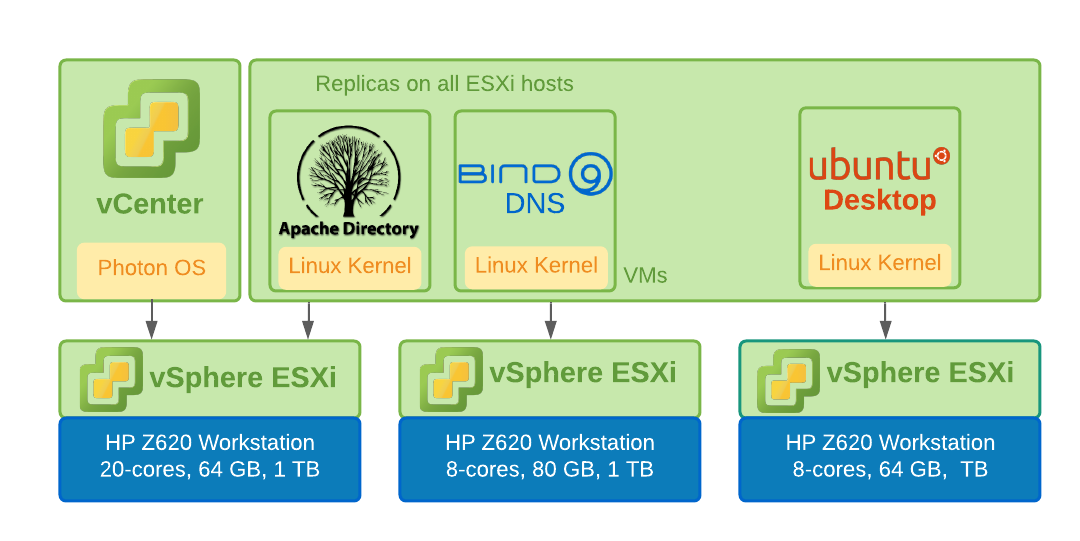
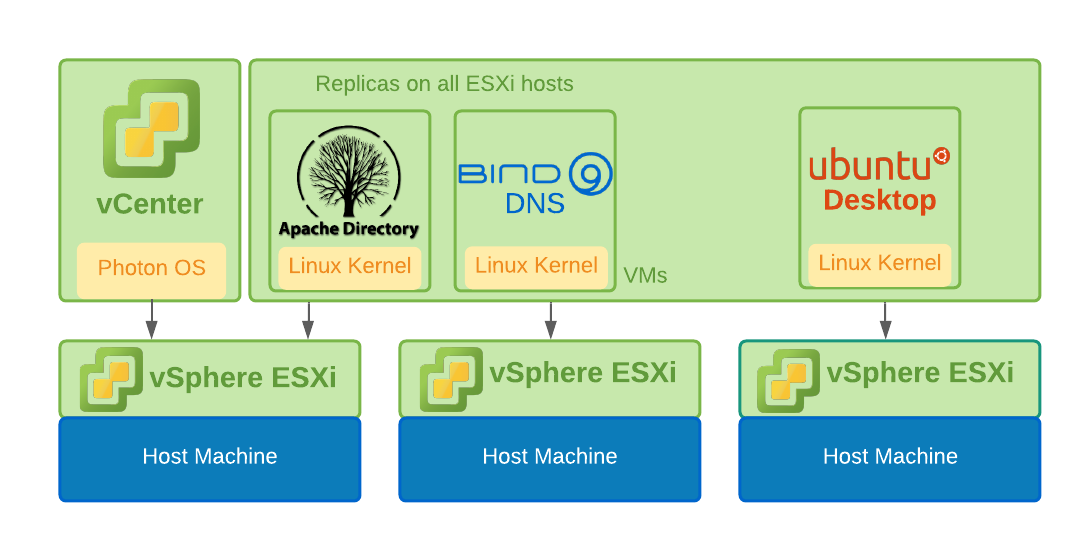
Depersonalized the post

Changed region(s): [[0.0917, 0.7985, 0.3056, 0.8872], [0.3972, 0.7985, 0.6111, 0.8872], [0.7333, 0.7985, 0.9167, 0.8872]]

diff --git a/_posts/2021-11-08-home-lab-2.0.md b/_posts/2021-11-08-home-lab-2.0.md
@@ -32,5 +32,4 @@ I'll go deeper into the rabbit hole to set-up HAProxy and Tanzu. This <a href="h
 
 {% include image.html url="/img/post-assets/2021-11-08-home-lab-2-vsphere-esxi/vsphere-tanzu-network.png" description="'Simplified' vSphere with Tanzu Network Topology" %}
 
-I will leave you with a picture of my old-school vSphere ESXi home lab. Hopefully, I will have something to share next week.
-{% include image.html url="/img/post-assets/2021-11-08-home-lab-2-vsphere-esxi/Home_Lab_2.png" description="vSphere ESXi Home Lab 2.0" %}
+I'm looking forward into diving into HAProxy next weekend!
